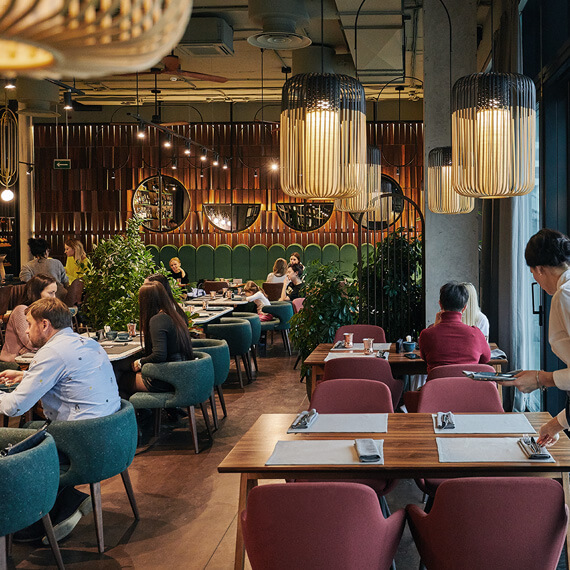
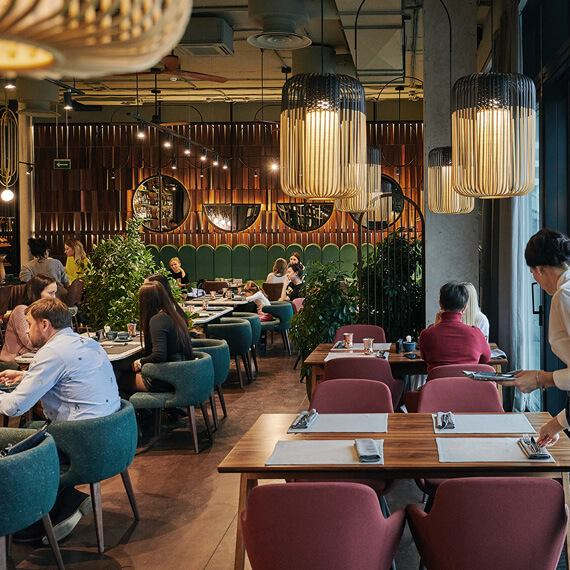
perf: serve responsive hero images and compress photos

diff --git a/src/features/landing/content.jsx b/src/features/landing/content.jsx
@@ -37,6 +37,7 @@ export const HERO_SLIDES = [
       href: "https://himalayarestaurant.com.au/the-health-benefits-of-traditional-indian-food/",
     },
     image: "images/hero-slider-1.jpg",
+    imageSmall: "images/hero-slider-1-960.jpg",
   },
   {
     subtitle: "Delightful experience",
@@ -49,6 +50,7 @@ export const HERO_SLIDES = [
     text: "Eat that which feels delightful, with proper food knowledge.",
     cta: { label: "View Blog", href: "#about" },
     image: "images/star1.jpg",
+    imageSmall: "images/star1-960.jpg",
   },
   {
     subtitle: "Label Reading",
@@ -63,7 +65,8 @@ export const HERO_SLIDES = [
       label: "View Blog",
       href: "https://www.fda.gov/food/nutrition-facts-label/how-understand-and-use-nutrition-facts-label",
     },
-    image: "images/label read (Custom) (Custom).jpg",
+    image: "images/label-read.jpg",
+    imageSmall: "images/label-read-960.jpg",
   },
 ];
 

diff --git a/index.html b/index.html
@@ -8,7 +8,14 @@
       name="description"
       content="SatyaAhaar helps you make informed food choices with barcode scanning, nutrition facts, and ingredient-based recipes."
     />
-    <link rel="preload" as="image" href="./assets/home/images/hero-slider-1.jpg" fetchpriority="high" />
+    <link
+      rel="preload"
+      as="image"
+      href="./assets/home/images/hero-slider-1.jpg"
+      imagesrcset="./assets/home/images/hero-slider-1-960.jpg 960w, ./assets/home/images/hero-slider-1.jpg 1880w"
+      imagesizes="100vw"
+      fetchpriority="high"
+    />
     <link rel="icon" type="image/svg+xml" href="./assets/home/favicon.svg" />
     <title>SatyaAhaar | Food literacy for better choices</title>
   </head>

diff --git a/src/features/landing/sections/HeroSlider.jsx b/src/features/landing/sections/HeroSlider.jsx
@@ -38,6 +38,12 @@ export default function HeroSlider() {
               >
                 <img
                   src={homeAsset(slide.image)}
+                  srcSet={
+                    slide.imageSmall
+                      ? `${homeAsset(slide.imageSmall)} 960w, ${homeAsset(slide.image)} 1880w`
+                      : undefined
+                  }
+                  sizes="100vw"
                   alt=""
                   className="h-full w-full object-cover"
                   loading={slideIndex === 0 ? "eager" : "lazy"}

diff --git a/src/features/landing/sections/Story.jsx b/src/features/landing/sections/Story.jsx
@@ -37,10 +37,10 @@ export default function Story() {
             href="https://www.sciencedirect.com/science/article/abs/pii/S0950329324001344"
             target="_blank"
             rel="noreferrer"
-            aria-label="Read more about food literacy research"
+            aria-label="Read the research on food literacy"
             className="mt-[26px] lg:mx-0"
           >
-            Read more
+            Read the research
           </Button>
         </div>
 
